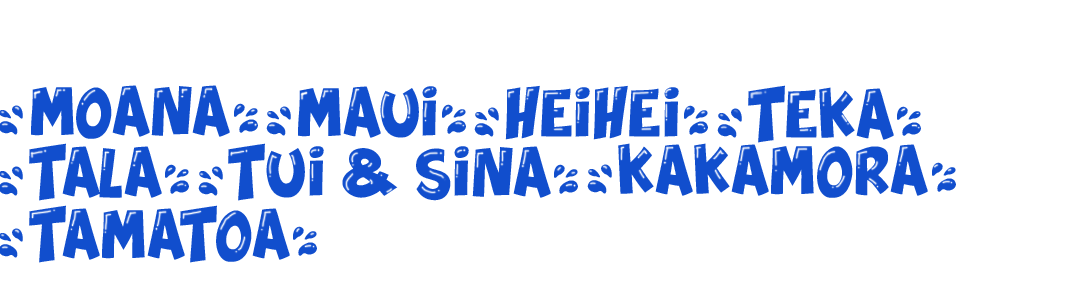
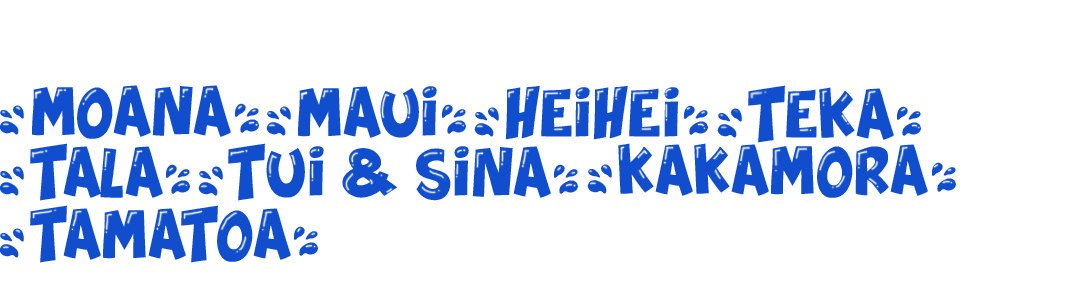
moana
moana

Changed region(s): [[0.0, 0.7376, 0.3078, 0.9362], [0.0, 0.3121, 0.2463, 0.4823], [0.0, 0.5106, 0.1847, 0.7092]]

diff --git a/css/moana-style.css b/css/moana-style.css
@@ -74,6 +74,7 @@ header{
 #intro{
   position: relative;
   background-image: url(../images/moana/intro_bg2.jpg);
+  background-size: cover; background-position: center;
   background-repeat: no-repeat;
 }
 #intro>h1{
@@ -156,14 +157,14 @@ header{
     margin-bottom: 50px;
     background-image: url(../images/moana/font.png);
   }
-  #c_main .cont1 span{width: 258px; background-position: 0 -86px;}
+  #c_main .cont1 span{width: 259px; background-position: 0 -86px;}
   #c_main .cont2 span{width: 200px; background-position: -266px -86px;}
   #c_main .cont3 span{width: 234px; background-position: -474px -86px;}
   #c_main .cont4 span{width: 204px; background-position: -717px -86px;}
-  #c_main .cont5 span{width: 189px; background-position: 0 -142px;}
+  #c_main .cont5 span{width: 190px; background-position: 0 -142px;}
   #c_main .cont6 span{width: 380px; background-position: -198px -142px;}
   #c_main .cont7 span{width: 369px; background-position: -587px -142px;}
-  #c_main .cont8 span{width: 317px; background-position: 0 -205px;}
+  #c_main .cont8 span{width: 318px; background-position: 0 -205px;}
 
   /* #c_list */
   #c_list{
